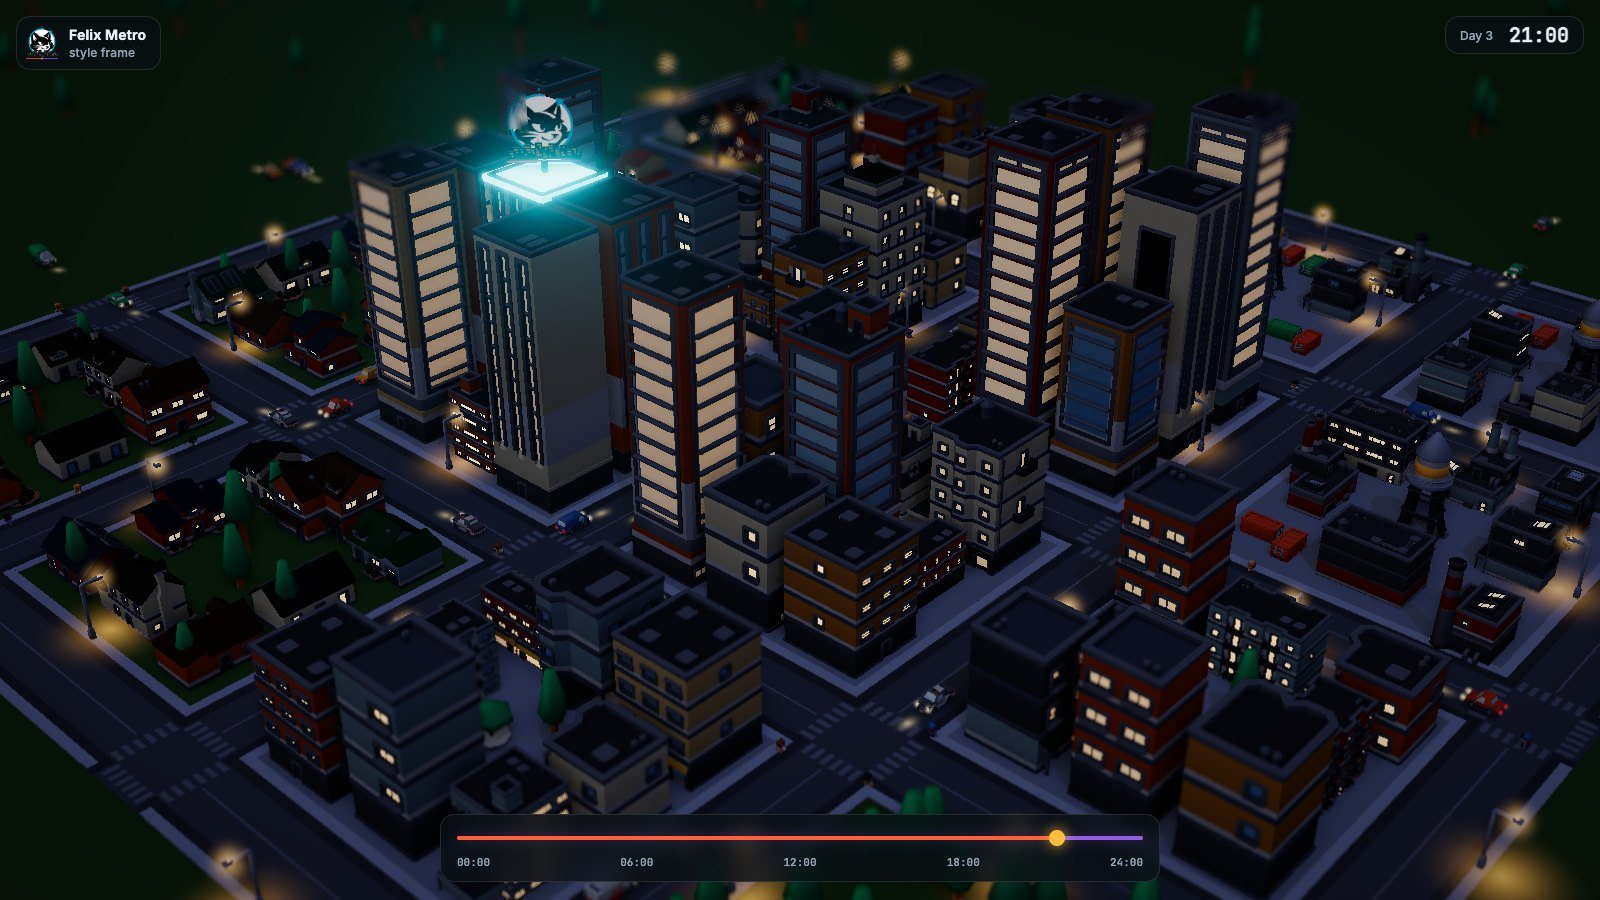
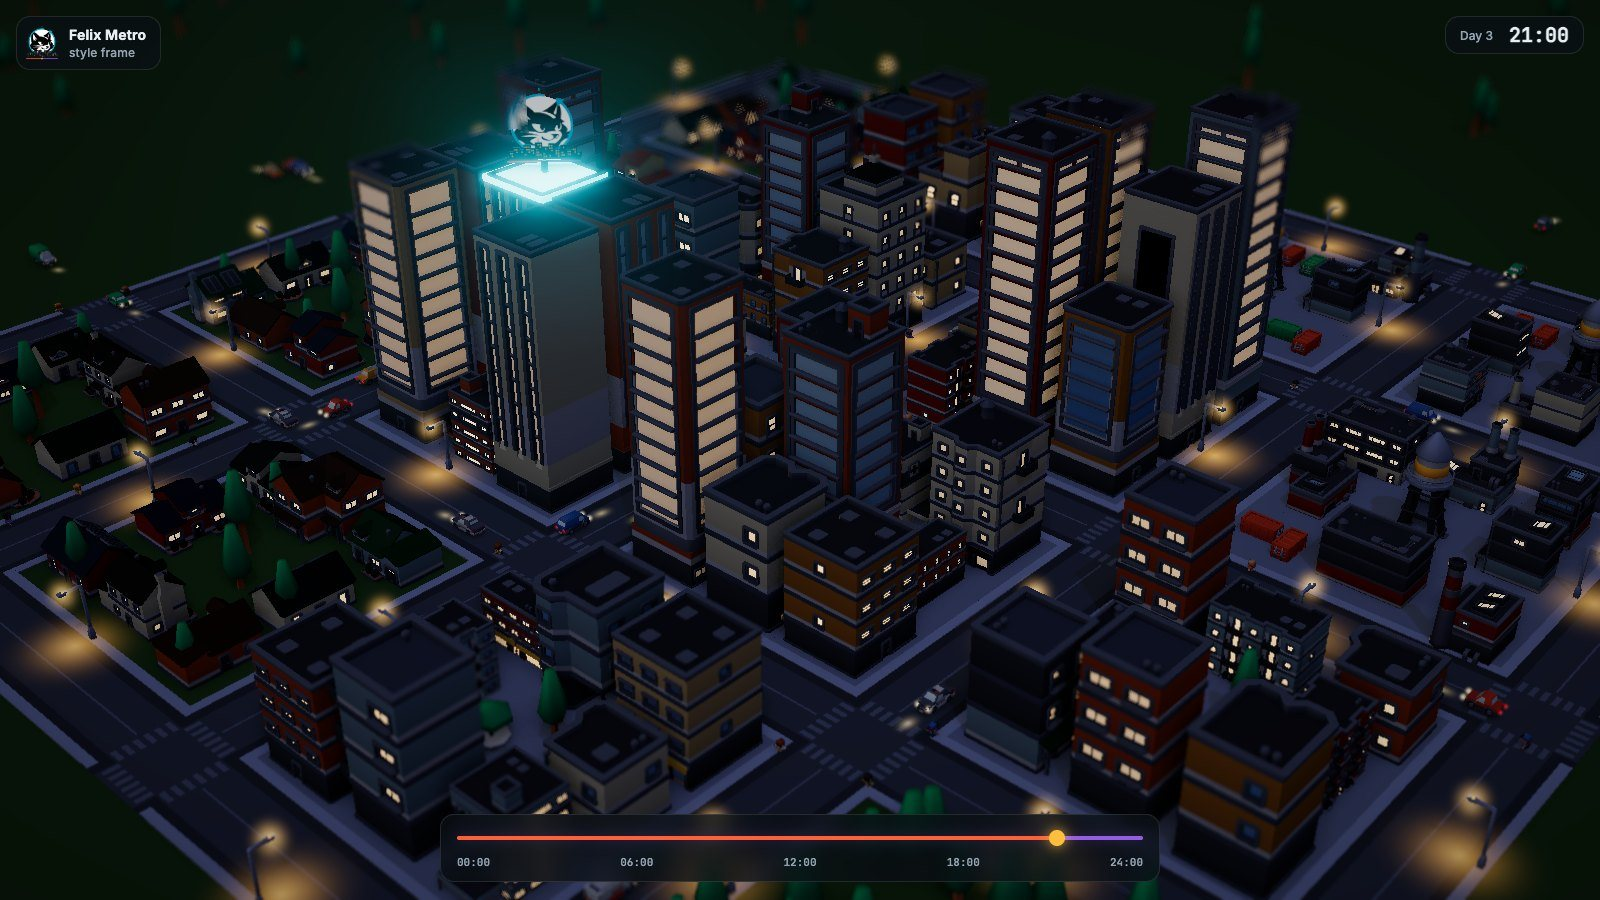
felix-metro style frames with the street light fix (#76)

diff --git a/projects.html b/projects.html
@@ -264,12 +264,12 @@ cargo run -p felix-gateway</code></pre>
       <div class="project-media reveal">
         <div class="pm framed">
           <picture class="shot-light">
-            <source srcset="/assets/img/metro-day.webp" type="image/webp">
-            <img src="/assets/img/metro-day.jpg" alt="Felix Metro style frame at noon: suburbs, downtown towers and an industrial district on a road grid, seen from above through a tilt-shift lens, with the time-of-day slider" width="1600" height="900" loading="lazy" decoding="async">
+            <source srcset="/assets/img/metro-day.webp?v=3" type="image/webp">
+            <img src="/assets/img/metro-day.jpg?v=3" alt="Felix Metro style frame at noon: suburbs, downtown towers and an industrial district on a road grid, seen from above through a tilt-shift lens, with the time-of-day slider" width="1600" height="900" loading="lazy" decoding="async">
           </picture>
           <picture class="shot-dark">
-            <source srcset="/assets/img/metro-night.webp" type="image/webp">
-            <img src="/assets/img/metro-night.jpg" alt="" width="1600" height="900" loading="lazy" decoding="async">
+            <source srcset="/assets/img/metro-night.webp?v=3" type="image/webp">
+            <img src="/assets/img/metro-night.jpg?v=3" alt="" width="1600" height="900" loading="lazy" decoding="async">
           </picture>
         </div>
       </div>
